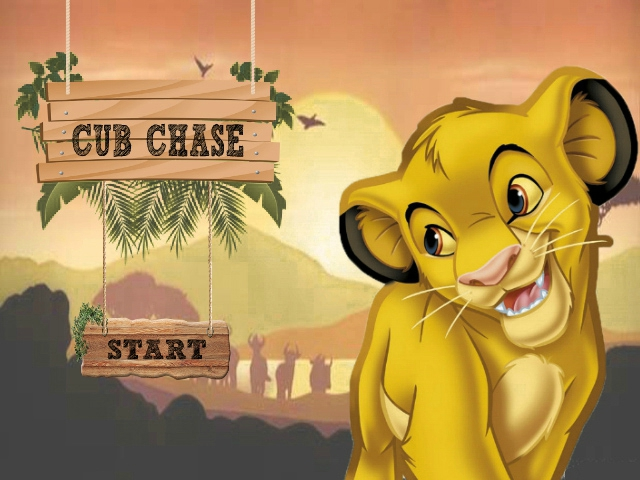
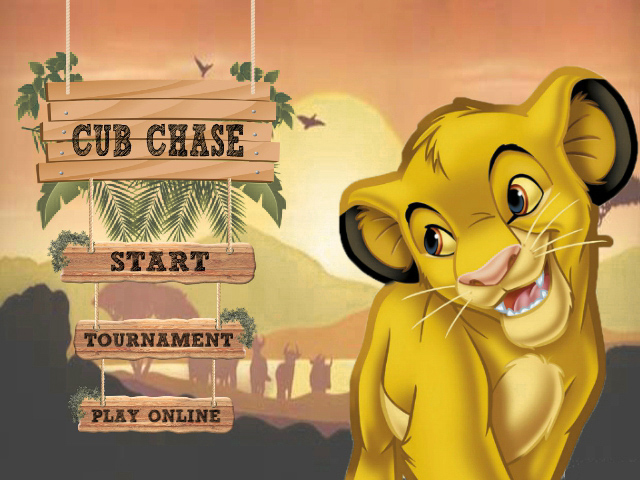
Turnir(II deo)

diff --git a/CubChase.py b/CubChase.py
@@ -39,7 +39,7 @@ class CubChase(QWidget):
         self._life = None
         self.add_force = False
         self.crown = None
-        self.continue_img = None
+        self.continue_img = None   #OVU LINIJU DODATI
 
         self.windowWidth = 640
         self.windowHeight = 480
@@ -78,7 +78,7 @@ class CubChase(QWidget):
 
     def initUI(self):
         self.hbox = QHBoxLayout(self)
-        self.pixmap = QPixmap("pocetna2.jpg")
+        self.pixmap = QPixmap("pocetna.jpg")
         self.setMaximumSize(640, 480)
         self.setMinimumSize(640, 480)
 
@@ -270,12 +270,61 @@ class CubChase(QWidget):
         self.btnT.setVisible(True)
         self.btnOnline.setVisible(True)
 
-    def showTournament(self):
+    def show_tournament(self):
         self.pixmap = QPixmap("turnirPozadina.jpg")
         self.lbl.setPixmap(self.pixmap)
+        self.btn.setVisible(False)
+        self.btnT.setVisible(False)
 
+        self.txtbox4.setVisible(True)
+        self.txtbox5.setVisible(True)
+        self.txtbox6.setVisible(True)
+        self.txtbox7.setVisible(True)
+        self.txtbox8.setVisible(True)
+        self.txtbox9.setVisible(True)
+        self.txtbox10.setVisible(True)
+        self.txtbox11.setVisible(True)
 
+        self.btnStartT.setVisible(True)
+        self.btnBack.setVisible(True)
 
+    def continue_tournament(self):
+        self.is_tournament = True
+        self.num_of_winners = self.counter // 2
+
+        for i in range(0, self.counter, 2):
+            self.player1 = i
+            self.player2 = i + 1
+            self.playerOneTotal = 0
+            self.playerTwoTotal = 0
+            self.enemyVel = 1
+            self.showMaze(self.users[self.player1]['name'], self.users[self.player2]['name'])
+            self.showGameOver()
+
+        # DRUGI KRUG TURNIRA:
+        while self.num_of_winners > 1:
+            self.users_winners = [{} for i in range(self.num_of_winners)]    # niz sa pobednicima
+            win_positions = []                                               # pozicija pobednika u nizu self.users
+
+            j = 0
+            for i in range(0, self.counter):
+                if self.users[i]['winner']:
+                    self.users_winners[j] = self.users[i]               # kopiranje pobednika u novi niz
+                    win_positions.insert(j, i)                          # i = pozicija u nizu self.users
+                    j += 1                                              # j = pozicija u nizu users_winners
+
+            for i in range(0,  self.num_of_winners, 2):
+                self.player1 = win_positions[i]
+                k = i + 1
+                self.player2 = win_positions[k]
+                self.playerOneTotal = 0
+                self.playerTwoTotal = 0
+                self.enemyVel = 1
+                self.showMaze(self.users_winners[i]['name'], self.users_winners[k]['name'])
+                self.num_of_winners -= 1
+                if self.num_of_winners == 1:
+                    self.one_winner = True
+                self.showGameOver()
 
     def start_tournament(self):
         self.users = [{} for i in range(8)]
@@ -358,7 +407,6 @@ class CubChase(QWidget):
         self.enemyOne = pygame.image.load('timon.png')
         self.enemyTwo = pygame.image.load('pumbaa.png')
         self._trap = pygame.image.load("zamka.png")
-        self._names = pygame.image.load("names.png")
         self._board = pygame.image.load("daska.png")
         self._life = pygame.image.load("life.png")
         self.name1 = name1
@@ -367,6 +415,8 @@ class CubChase(QWidget):
         # inicijalizacija igraca i mape
         self.playerOneFinished = False
         self.playerTwoFinished = False
+        self.player_one_dead = False
+        self.player_two_dead = False
         self.x.value = 379
         self.y.value = 210
         self.x2.value = 237
@@ -382,8 +432,6 @@ class CubChase(QWidget):
         self.life1.value = 3
         self.life2.value = 3
         self.add_force = False
-        self.player_one_dead = False
-        self.player_two_dead = False
         self.add_trap1 = Value('i', 1)
         self.add_trap2 = Value('i', 1)
         self.caught3.value = 0
@@ -460,21 +508,41 @@ class CubChase(QWidget):
 
         self.playerOneTotal += self.playerOnePoints
         self.playerTwoTotal += self.playerTwoPoints
+
         p1.kill()
         p2.kill()
         p3.kill()
         p4.kill()
+
         if not quit and not self.game_finished:
             pygame.time.delay(1000)
             self.showResults()
         if self.game_finished:
-            self.showGameOver()
+            if self.is_tournament:
+                self.users[self.player1]['points'] = self.playerTwoTotal
+                self.users[self.player2]['points'] = self.playerOneTotal
+
+                if self.users[self.player1]['points'] > self.users[self.player2]['points']:
+                    self.users[self.player1]['winner'] = True
+                    self.users[self.player2]['winner'] = False
+                elif self.users[self.player1]['points'] < self.users[self.player2]['points']:
+                    self.users[self.player2]['winner'] = True
+                    self.users[self.player1]['winner'] = False
+                else:
+                    #ako je nereseno -> bonus nivo
+                    self.player_one_dead = False
+                    self.player_two_dead = False
+                    self.game_finished = False
+                    self.showResults()
+                return
+            else:
+                self.showGameOver()
         pygame.quit()
 
     def showResults(self):
         bg = pygame.image.load("white.png")
         self.screen.blit(bg, [0, 0])
-        self._backgroundResult = pygame.image.load("rezultatKonacno.png")
+        self._backgroundResult = pygame.image.load("rezultatKonacno.jpg")
         self.screen.blit(self._backgroundResult, [0, 0])
 
         font = pygame.font.Font('Sketch_Block.ttf', 20)
@@ -505,21 +573,20 @@ class CubChase(QWidget):
         self._display_surf.blit(text2, textRect2)
         self._display_surf.blit(result2, res2Rect)
         self._display_surf.blit(total_results2, totalRect2)
-
         pygame.display.update()
+
         self.playerTwoPoints = self.paws1.get_score()
         self.playerOnePoints = self.paws2.get_score()
         if self.enemyVel < 4:
             self.enemyVel = self.enemyVel + 1
 
         wait = True
-        wait2 = True  # za NEXT LEVEL
-        while wait and wait2:
+        wait2 = True # za NEXT LEVEL
+        while wait and wait2: # and wait1:
             # pratiti poziciju kursora
             for event in pygame.event.get():
                 if event.type == pygame.QUIT:
                     wait = False
-
                 if event.type == pygame.MOUSEBUTTONDOWN:
                     mouse_pos = event.pos
                     if 495 < mouse_pos[0] < 585 and 430 < mouse_pos[1] < 460:
@@ -530,7 +597,7 @@ class CubChase(QWidget):
     def showGameOver(self):
         bg = pygame.image.load("white.png")
         self.screen.blit(bg, [0, 0])
-        self._backgroundResult = pygame.image.load("GameOverKonacno.png")
+        self._backgroundResult = pygame.image.load("GameOverKonacno.jpg")
         self.screen.blit(self._backgroundResult, [0, 0])
         font = pygame.font.Font('Sketch_Block.ttf', 20)
         black = (255, 255, 255)
@@ -566,6 +633,10 @@ class CubChase(QWidget):
             self.screen.blit(self.crown, [29, 72])
         elif self.playerOneTotal > self.playerTwoTotal:
             self.screen.blit(self.crown, [468, 72])
+
+        if self.is_tournament and not self.one_winner:
+            self.continue_img = pygame.image.load("startdugme.jpg").convert()
+            self.screen.blit(self.continue_img, [255, 415])
 
         pygame.display.update()
 
